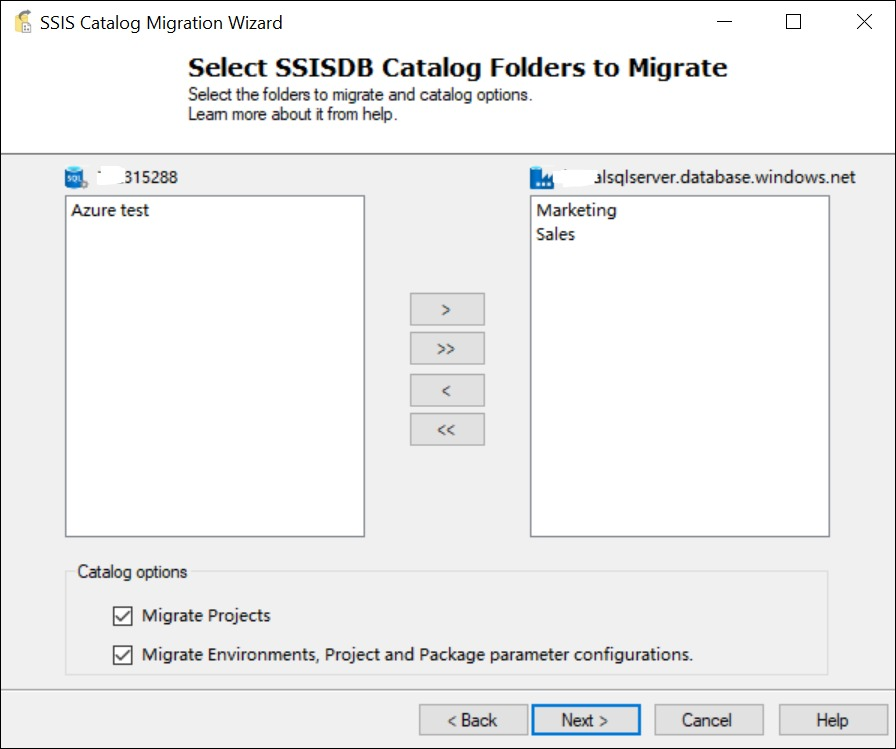
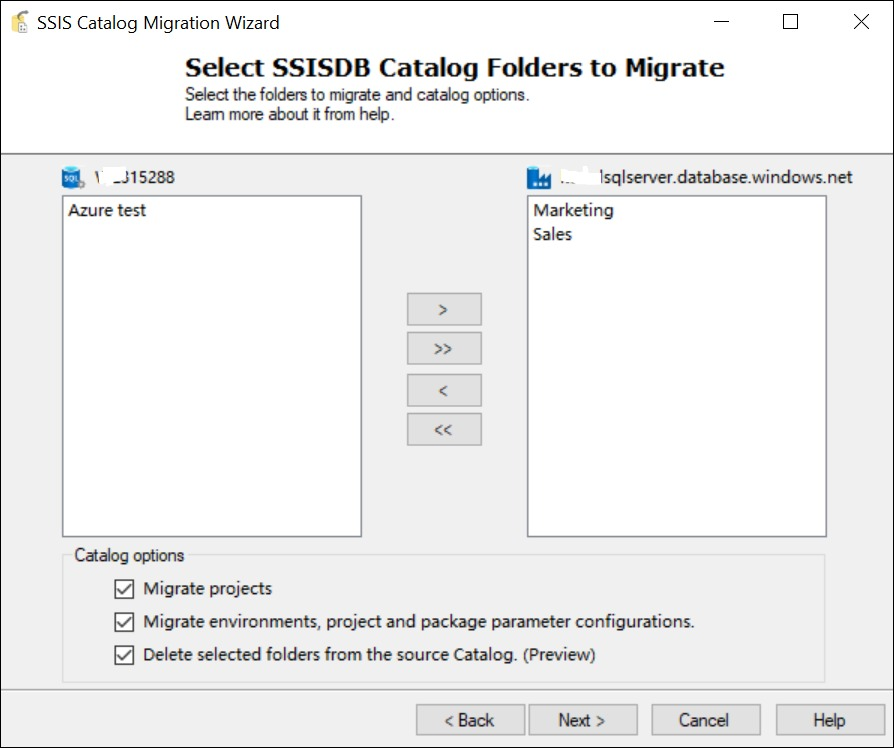
updated documentation for 1.1

diff --git a/index.md b/index.md
@@ -56,9 +56,11 @@ Choose the catalog folders from the listview that you want to migrate.
 
 At the bottom, choose the catalog options:
 
-* Migrate Projects - Select the checkbox if you want to migrate SSIS projects (.ispac) files from the selected list of folders.
+* Migrate projects - Select the checkbox if you want to migrate SSIS projects (.ispac) files from the selected list of folders.
 
-* Migrate Environments, Project and Package parameter configurations - Select the checkbox if you want to migrate catalog Environments. This will apply environment references to SSIS projects and environment variable to parameter mapping. It also includes project and package parameters with default values set in the source SSISDB.
+* Migrate environments, project and package parameter configurations. - Select the checkbox if you want to migrate catalog Environments. This will apply environment references to SSIS projects and environment variable to parameter mapping. It also includes project and package parameters with default values set in the source SSISDB.
+
+* Delete selected folders from the source Catalog. (Preview) - Select the checkbox if you want to delete selected Catalog folders from source server. 
 
 **While you are on your way, would you like to replace your environment variable values?**
 
